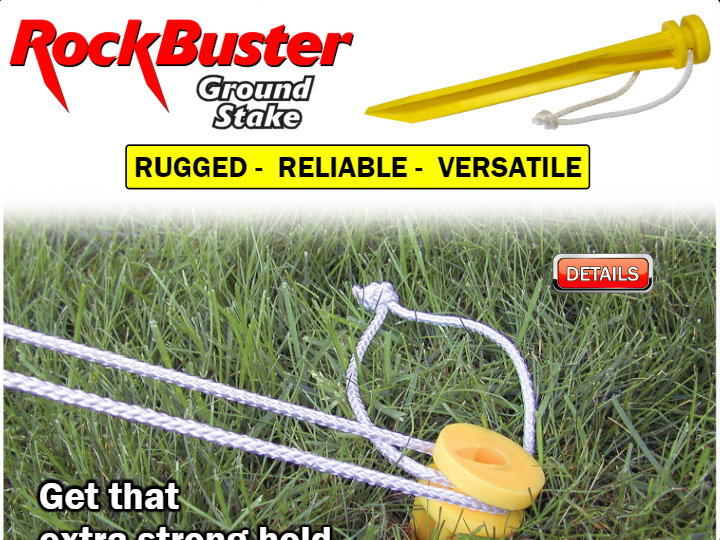
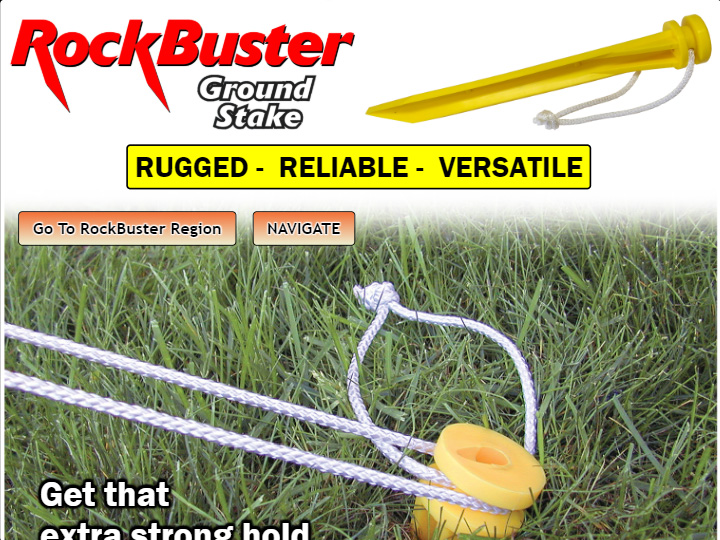
User content add/edit and updates for view04

diff --git a/components/components04_07/tmpl_04/viewTmpl_04.html b/components/components04_07/tmpl_04/viewTmpl_04.html
@@ -1,35 +1,4 @@
-<style>
-.textStyle1
-{
-font-family: 'Franklin Gothic Medium', 'Franklin Gothic', 'ITC Franklin Gothic', Arial, sans-serif;   
-color:white;
-text-shadow:    1px 0px 1px black, 2px 0px 2px black, 3px 0px 3px black, 
-                1px 1px 1px black, 2px 2px 2px black, 3px 3px 3px black,
-                0px 1px 1px black, 0px 2px 2px black, 0px 3px 3px black,
-
-                -1px 1px 1px black, -2px 2px 2px black, -3px 3px 3px black,
-                -1px 0px 1px black, -2px 0px 2px black, -3px 0px 3px black,
-                
-                -1px -1px 1px black, -2px -2px 2px black, -3px -3px 3px black,
-                 0px -1px 1px black,  0px -2px 2px black,  0px -3px 3px black,
-                 1px -1px 1px black,  2px -2px 2px black,  3px -3px 3px black;
-}
-
-.fontFam
-{
-font-family: 'Franklin Gothic Medium', 'Franklin Gothic', 'ITC Franklin Gothic', Arial, sans-serif;     
-}
-
-.imageStyle1:hover
-{
-background-color:black; 
-border-radius:10px;
-box-shadow: 1px 1px 15px #CCEDF2, 1px -1px 15px #CCEDF2, -1px 1px 15px #CCEDF2, -1px -1px 15px #CCEDF2,
-            1px 1px 25px #EAE2BB, 1px -1px 25px #EAE2BB, -1px 1px 25px #EAE2BB, -1px -1px 25px #EAE2BB,
-            1px 1px 25px #EAE2BB, 1px -1px 25px #EAE2BB, -1px 1px 25px #EAE2BB, -1px -1px 25px #EAE2BB;
-}
-
-</style>
+<link rel="stylesheet" type="text/css" href="css/vn-templateStyle1.css">
 
 <div style="text-align:center;">    
    
@@ -71,39 +40,79 @@ box-shadow: 1px 1px 15px #CCEDF2, 1px -1px 15px #CCEDF2, -1px 1px 15px #CCEDF2, 
    
 <!-- AR Response Section 3 ************************************************************************************************************************************************-->
     <br>
-    <div style="position:relative;">
-        
-        <table style="  position:absolute; 
-                        {{$ctrl.rs3positiontop1}};      /* AR_100_25 */
-                        {{$ctrl.rs3positionleft1}};     /* AR_80_ 70*/
-                        z-index:2;">
-            <tr>
-                <td style="text-align:right;">
-                    <a href="https://www.tarptiedown.com/index-old.html"> 
-                        <img src="https://tarptiedown.com/resources/ttd-vn-button3-300x120.png" 
-                             alt="button" 
-                             class="imageStyle1"
-                             style="{{$ctrl.rs3width3}};">
-                    </a>
-                </td>
-                
-            </tr>
-        </table>
-        <div id="div4" 
-             class="textStyle1" 
-             style="position:absolute; 
-                    {{$ctrl.rs3positiontop2}};    /* AR_450px_140px*/
-                    left:5%; 
-                    {{$ctrl.rs3fontsize5}}; 
-                    text-align:left; 
-                    z-index:2;">
-            Get that<br>extra strong hold<br>when you need it the most!
-        </div>
+    <div style="position:relative;
+                {{$ctrl.rs3fontsize1}};
+               ">
         
         <img    src="components/components04_07/tmpl_04/ttd-vn-rb-presentation2-1500x900.png" 
                 alt="RockBuster Field Presentation" 
                 title="RockBuster Field Presentation" 
                 style="position:absolute; top:0px; left:0px; width:100%;"> 
+        
+        <div style="position:absolute;
+                    left:2%;
+                    {{$ctrl.rs3top1}};
+                   ">
+            <a  href="https://www.tarptiedown.com/components/components04_07/tmpl_04/ttd-vn-rb-not-complete-msg.html"
+                class="btnStyle2"
+                style= "{{$ctrl.rs3padding1}};
+                        text-decoration:none;
+                        font-weight:bold;
+                       "
+               > Go To RockBuster Region
+                
+            </a>
+            <div class="btnStyle2" 
+                 ng-click="$ctrl.moreless2()"
+                 style="{{$ctrl.rs3padding1}};
+                        {{$ctrl.rs3marginleft1}};
+                        font-weight:bold;
+                       ">
+                     {{$ctrl.morelessText2}}
+            </div>
+            <div class="textBoxStyle2 textStyle3"
+                 ng-show="$ctrl.display2">
+                 
+                <table  style= "width:100%;">
+                    <tr><td><u>SELECTION</u>&nbsp;&nbsp;&nbsp;&nbsp;&nbsp;&nbsp;</td>
+                        <td><u>DESTINATION</u>
+                            <span   class= "youAreHere2">
+                                &nbsp;&nbsp;you are here&nbsp;&nbsp;
+                            </span>
+                        </td>
+                    </tr>
+                    <tr class="topMenuNav">  <td class="tdStyle">TTD Intro          </td><td class="tdStyle">Tarp Tie Down Home & intro </td></tr>
+                    <tr class="topMenuNav">  <td class="tdStyle">Price/Buy          </td><td class="tdStyle">Product pricing and store  </td></tr>
+                    <tr class="topMenuNav">  <td class="tdStyle">Products           </td><td class="tdStyle">Tarp Tie Down products     </td></tr>
+                    <tr class="topMenuNav">  <td class="tdStyle">Reviews            </td><td class="tdStyle">Customer feedback          </td></tr>
+                    <tr class="hyperMenuNav"><td class="tdStyle">Button A  Thumb 1  </td><td class="tdStyle">Standard EZ Grabbit        </td></tr>
+                    <tr class="hyperMenuNav"><td class="tdStyle">Button A  Thumb 2  </td><td class="tdStyle">Long Grabbit               </td></tr>
+                    <tr class="hyperMenuNav"><td class="tdStyle">Button A  Thumb 3  </td><td class="tdStyle">Mini Grabbit               </td></tr>
+                    <tr class="hyperMenuNav"><td class="tdStyle">Button A  Thumb 4  </td><td class="tdStyle">EZ Adjust Rope Adjuster    </td></tr>
+                    <tr class="youAreHere">  <td class="tdStyle">Button B  Thumb 1  </td><td class="tdStyle">RockBuster Ground Stake    </td></tr>
+                    <tr class="hyperMenuNav"><td class="tdStyle">Button B  Thumb 2  </td><td class="tdStyle">Bag Grabbit Bag Handle     </td></tr>
+                    <tr class="hyperMenuNav"><td class="tdStyle">Button B  Thumb 3  </td><td class="tdStyle">The EZ Grabbit Keeper      </td></tr>
+                    <tr class="hyperMenuNav"><td class="tdStyle">Button B  Thumb 4  </td><td class="tdStyle">Carry/Duffle Bag           </td></tr>
+                    <tr class="hyperMenuNav"><td class="tdStyle">Button C  Thumb 1  </td><td class="tdStyle">Tent Poles                 </td></tr>
+                    <tr class="hyperMenuNav"><td class="tdStyle">Button C  Thumb 2  </td><td class="tdStyle">Classic EZ Grabbit         </td></tr>
+
+                </table>
+            </div>  
+        </div>
+        
+        <div id="div4" 
+             class="textStyle2 textShadow1" 
+             style="position:absolute; 
+                    {{$ctrl.rs3positiontop2}};    /* AR_450px_140px*/
+                    left:5%; 
+                    {{$ctrl.rs3fontsize5}}; 
+                    color:white;
+                    text-align:left; 
+                    z-index:2;">
+            Get that<br>extra strong hold<br>when you need it the most!
+        </div>
+        
+       
     </div>
 
 </div> 

diff --git a/components/components04_07/components04_07.js b/components/components04_07/components04_07.js
@@ -19,11 +19,27 @@ angular.module('viewNav')
             
             
             // AR Response Section 3
-            self04.rs3positiontop1 = "top:" + ((0.09259)*(viewWidth)-8.33333) + "px";       // AR_100_25
-            self04.rs3positionleft1 = "left:" + ((0.01235)*(viewWidth)+65.55556) + "%";     // AR_80_70
-            self04.rs3width3 = "width:" + ((0.09877)*(viewWidth)+34.44444) + "px";          // AR_150_70         
-            self04.rs3positiontop2 = "top:" + ((0.38272)*(viewWidth)+2.22222) + "px";       // AR_450_140      
-            self04.rs3fontsize5 = "font-size:" + ((0.00370)*(viewWidth)-0.33333) + "em";    // AR_4_1
+            self04.rs3fontsize1 = "font-size:" + ((0.00095)*(viewWidth)+0.38778) + "em";        /* AR_1.50_0.73 */
+            self04.rs3top1 = "top:" + ((0.01852)*(viewWidth)+8.33333) + "px";                   /* AR_30.00_15.00 */      
+            self04.rs3marginleft1= "margin-left:" + ((0.01852)*(viewWidth)-1.66667) + "px";     /* AR_20.00_5.00 */
+            self04.rs3padding1 = "padding:" + ((0.00617)*(viewWidth)+2.77778) + "px " + ((0.01235)*(viewWidth)+5.55556) + "px";    /* AR_10.00_5.00 */ /* AR_20.01_10.00 */
+            
+            // Sets mode of the "NAVIGATE" button
+            self04.display2 = false;
+            self04.morelessText2 = "NAVIGATE";
+            self04.moreless2 = function(){
+                if(self04.morelessText2 === "NAVIGATE"){
+                    self04.morelessText2 = "HIDE NAVIGATE";
+                    self04.display2 = true;
+                } 
+                else {
+                    self04.morelessText2 = "NAVIGATE";
+                    self04.display2 = false;
+                }
+            };
+                 
+            self04.rs3positiontop2 = "top:" + ((0.38272)*(viewWidth)+2.22222) + "px";       /* AR_450_140   */      
+            self04.rs3fontsize5 = "font-size:" + ((0.00162)*(viewWidth)+0.76511) + "em";    /* AR_2.66_1.35 */ /*relative to rs3fontsize1 */
             
             compFactory.logView(04);
         }]

diff --git a/components/components04_07/tmpl_04/ttd-vn-rb-not-complete-msg.html b/components/components04_07/tmpl_04/ttd-vn-rb-not-complete-msg.html
@@ -19,26 +19,26 @@
     </div>
     <div style="max-width:1170px; margin-left:auto; margin-right:auto; font-size:1.0em;">	
         <p id="p1" style="text-align:center;">
-            Our EZ Adjust region is <span style="text-decoration:underline; font-weight:bold;">not</span> yet Complete 
+            Our RockBuster region is <span style="text-decoration:underline; font-weight:bold;">not</span> yet Complete 
         </p>
 
         <p style="text-align:center;">
-            Please click on the EZ Adjust button to go to our EZ Adjust store item. The product info there is helpful.<br><br>
+            Please click on the RockBuster button to go to our RockBuster store item. The product info there is helpful.<br><br>
             <b>NOTE!</b><br>
                 <span style="font-family:Franklin Gothic Medium, Franklin Gothic, ITC Franklin Gothic, Arial, sans-serif; 
                              color:blue;
                             ">
-                    Full EZ Adjust product info is on the way.
+                    Full RockBuster product info is on the way.
                 </span>
                 <br><br> 
         </p>	
 
         <div id="d1"
              style="text-align:center">
-                <a href="https://www.tarptiedown.com/TTD-Store/index.php?rt=product/category&path=10&session_id=6j7rvh11bja994asmiaq72uj26"
+                <a href="https://www.tarptiedown.com/TTD-Store/index.php?rt=product/category&path=9&session_id=6j7rvh11bja994asmiaq72uj26s"
                    class="btnStyle2"
                    style="text-decoration:none;">
-                        EZ Adjust Store Item
+                        RockBuster Store Item
                 </a><br><br>
                 <a href="https://www.tarptiedown.com" 
                    class="btnStyle2"

diff --git a/controller-client.js b/controller-client.js
@@ -289,7 +289,7 @@ angular.module('viewNav')
 //***********************************************************************************************************************************************************            
 // $state.go('some-view') loads the desired view as the default view upon load               
         var stateGo = (function(){    
-            $state.go('view03');
+            $state.go('view04');
 /*             
                 // Use this setTimeout if intializing with a template. If you initialize with a template only the first thumbnail group will show properly. If
                 // it's a template (view04 and up) then the proper thumbnail group won't show unless you call the stateHistory method and send it the proper parameters
